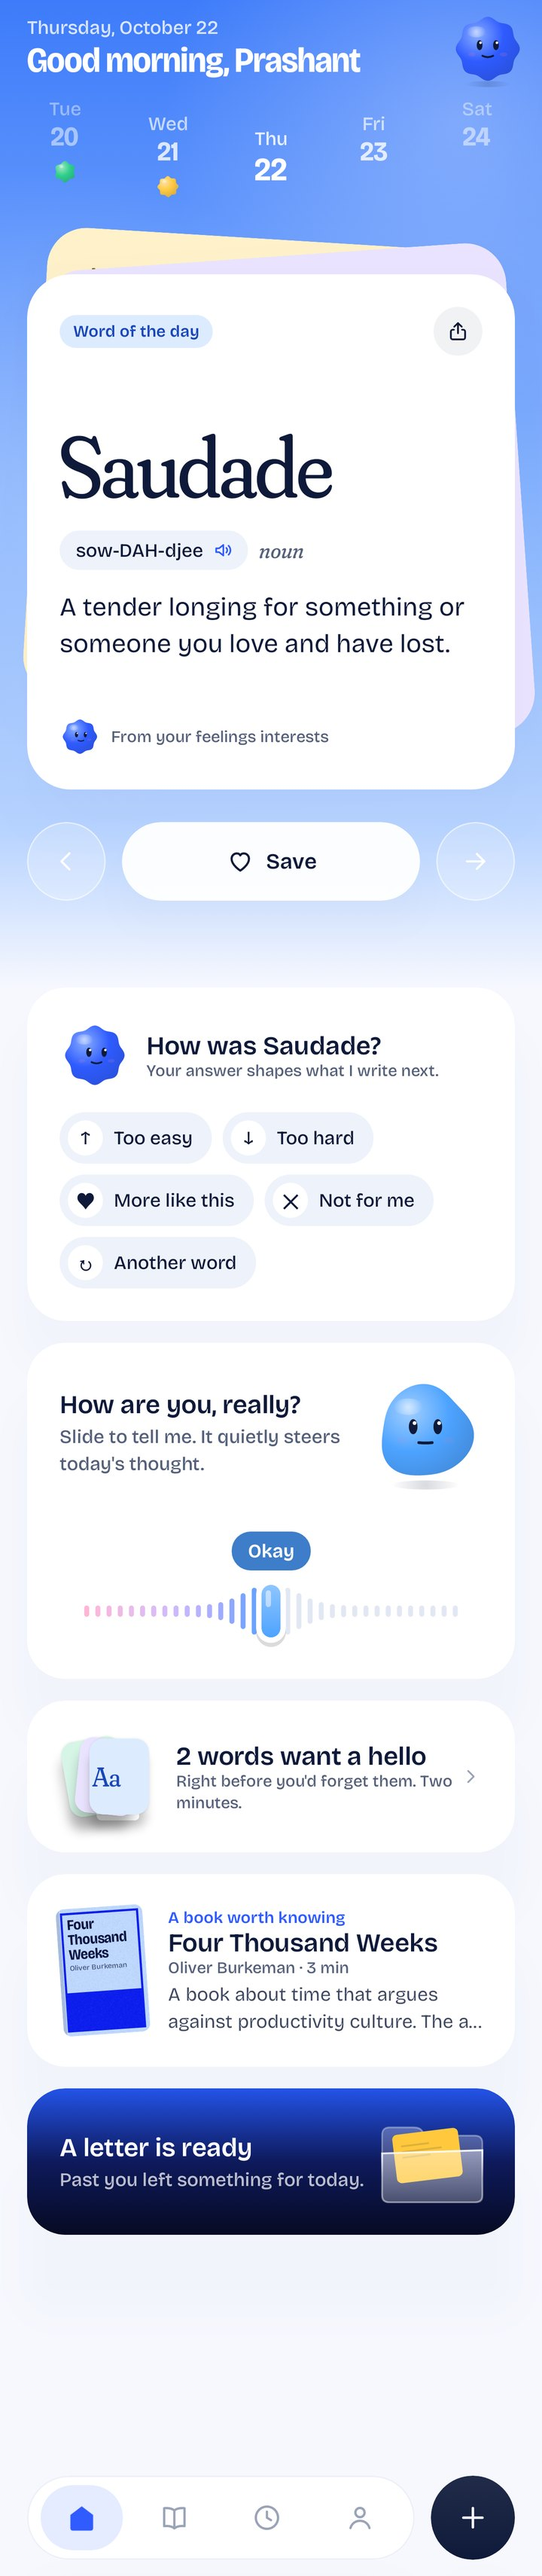
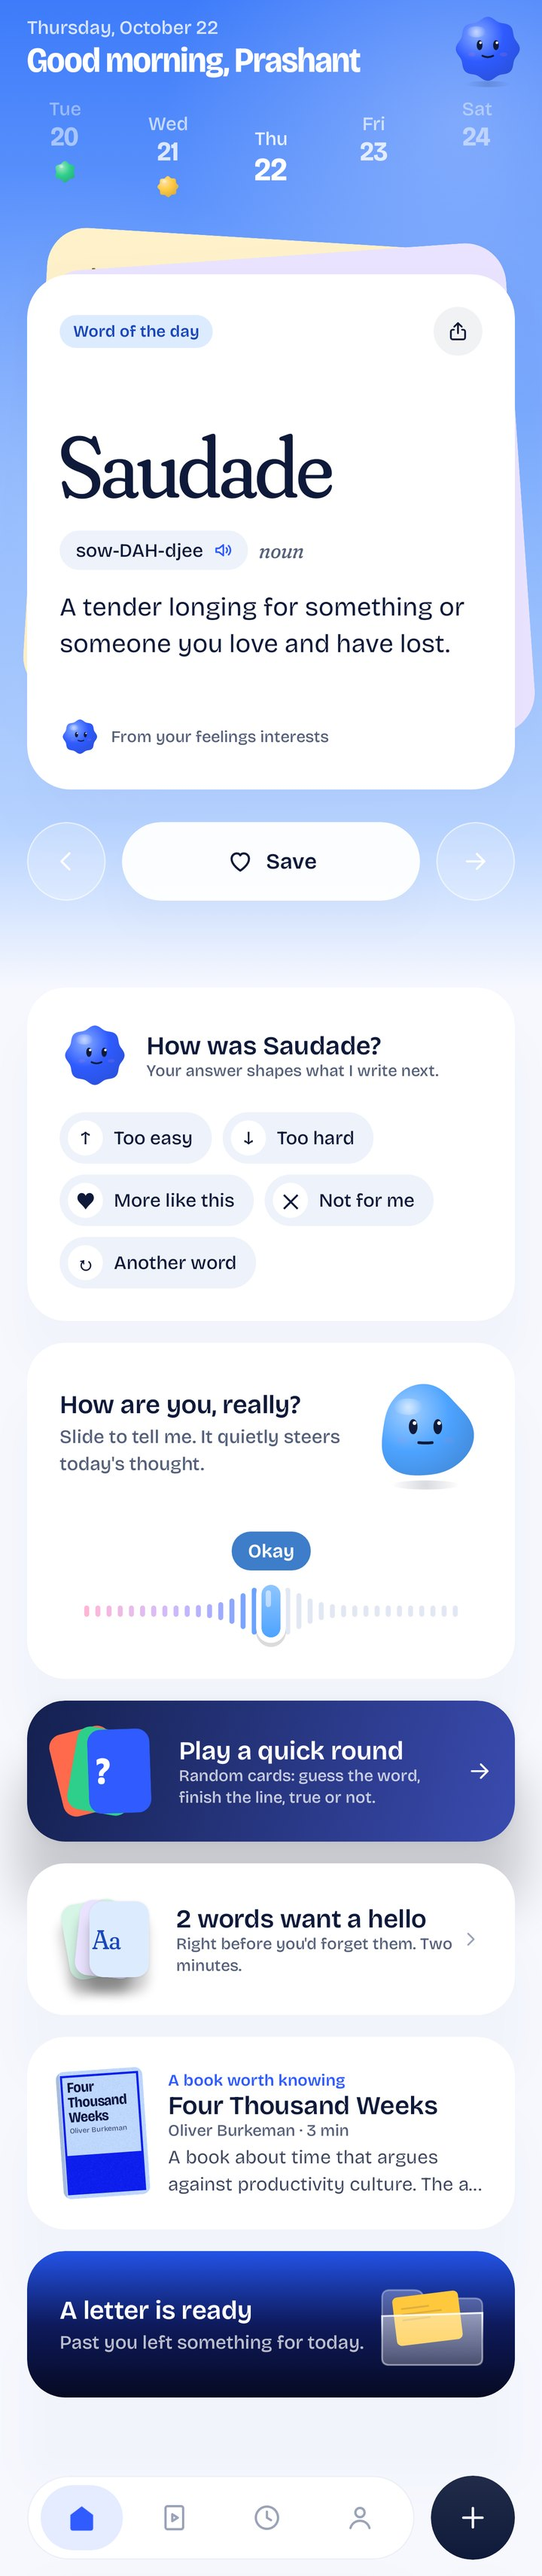
Review pass: plurals, taste skill round three, docs and screenshots
Written by Claude (Opus 5.5).

- Fixed singular/plural copy ("1 unseen word", "1 book").
- kairos-playful-sky skill: round-three rules (product shape, Feed rules
  and signals, card shapes and ArtAndText, no "written for you", Play,
  transitions, letters, on-device AI) and the trending skills used.
- README and screenshots: Feed, Play, the new letter, cards in every shape.
- Checked: 81 tests pass; the release build passes.

Changed region(s): [[0.0306, 0.6509, 0.9778, 0.9298], [0.3056, 0.9608, 0.3361, 0.9918]]

diff --git a/app/src/main/java/com/kairos/app/ui/feature/you/Curator.kt b/app/src/main/java/com/kairos/app/ui/feature/you/Curator.kt
@@ -140,7 +140,7 @@ fun CuratorScreen(onBack: () -> Unit) {
             AnimatedContent(message, transitionSpec = { fadeIn() togetherWith fadeOut() }, label = "msg") { m ->
                 if (m != null) Text(m, style = K.type.label.copy(fontWeight = FontWeight.SemiBold), color = p.onSky, textAlign = TextAlign.Center, modifier = Modifier.fillMaxWidth().padding(top = Gap.md, start = Gap.gutter, end = Gap.gutter))
             }
-            if (awake) Text("$pool unseen words waiting for you", style = K.type.caption, color = p.onSkySoft, modifier = Modifier.padding(top = Gap.sm))
+            if (awake) Text(if (pool == 1) "1 unseen word waiting for you" else "$pool unseen words waiting for you", style = K.type.caption, color = p.onSkySoft, modifier = Modifier.padding(top = Gap.sm))
         }
 
         Column(Modifier.padding(horizontal = Gap.gutter)) {

diff --git a/app/src/main/java/com/kairos/app/ui/feature/learn/LearnScreen.kt b/app/src/main/java/com/kairos/app/ui/feature/learn/LearnScreen.kt
@@ -433,7 +433,7 @@ private fun QuoteTile(q: QuoteEntity, index: Int, onClick: () -> Unit, modifier:
 private fun Books(books: List<BookEntity>, d: Discover, more: () -> Unit, open: (String) -> Unit) {
     val p = K.colors
     Column {
-        Text(if (books.isEmpty()) "Your shelf is waiting" else "${books.size} books worth knowing", style = K.type.shout.copy(fontSize = 34.sp, lineHeight = 36.sp), color = p.ink)
+        Text(if (books.isEmpty()) "Your shelf is waiting" else if (books.size == 1) "1 book worth knowing" else "${books.size} books worth knowing", style = K.type.shout.copy(fontSize = 34.sp, lineHeight = 36.sp), color = p.ink)
         Spacer(Modifier.height(Gap.lg))
         Box(Modifier.fillMaxWidth().height(200.dp)) {
             // The glass shelf the covers stand on.

diff --git a/README.md b/README.md
@@ -25,12 +25,14 @@ Share cards, each drawn from one of the references in issue #606:
 
 <p><img src="docs/screenshots/10_cards_word.jpg" width="380" /> <img src="docs/screenshots/10c_cards_story.jpg" width="380" /></p>
 
-## Kai writes for free
+## Kai writes for free (and offline on supported phones)
 
 Kairos ships with its own AI so nobody has to bring a key: **Mercury 3** (Inception's diffusion
 model, very fast) writes words, and **Gemini Flash** writes thoughts and books, where real quotes and
 real books must be exactly right. Each falls back to the other. Anyone can still add their own
-OpenRouter key under You → Kai, and it is used first.
+OpenRouter key under You → Kai, and it is used first. On phones that support it, **Gemini Nano**
+runs on the device (ML Kit GenAI) and writes original lines, affirmations and small good things
+offline; quotes, books and word origins always come from the cloud models.
 
 The built-in keys are read at build time from `local.properties` or the environment
 (`INCEPTION_API_KEY`, `GEMINI_API_KEY`) and are never committed. Anything inside an APK can be
@@ -70,10 +72,12 @@ word enrols it in SM-2 spaced repetition.
 |---|---|
 | **Onboarding** | The logo wakes up: the bloom's petals unfold and it becomes Kai, the curator, who opens their eyes. Kai and three friends stay on screen and move between steps while a white cloud field rises and falls. Giant dashed-to-solid pills for topics and themes, a word wheel and adaptive slider for level, a key ritual to wake Kai, and an aurora finale that says what Kai learned about you. |
 | **Today** | Greeting with Kai in today's mood, an arched week strip with a mood shape for each day, and a swipeable deck of tilted cards: the word, the thought and the small good thing. `←  Save  →` controls with a heart burst, Teach Kai reactions, a mood check-in through the adaptive slider (Kai changes shape as you slide), a review nudge and a peek at the capsule. |
-| **Learn** | Words, Thoughts and Books. An endless, ranked "Fresh for you" strip, "Ask Kai for words about…", typographic library tiles, and micro-summaries of books on a shelf of typographic covers. |
+| **Feed** | An endless reel of words, thoughts, affirmations, book bites and breathing pauses, each on its own card design. Double tap to keep, share to a card, "less" to see fewer. It learns from what you keep, share and linger on, and re-ranks as you scroll. |
+| **Play** | Random flashcards: guess the word, finish the line, true or not. Flip, swipe right if you knew it. |
+| **Library** | Words, Thoughts and Books. An endless, ranked "Fresh for you" strip, "Ask Kai for words about…", typographic library tiles, and micro-summaries of books on a shelf of typographic covers. |
 | **Word / thought / book pages** | A typographic specimen hero for words (the word over a ghost of itself), a grainy glow with a smiling sun for thoughts, and a book page with the summary, key ideas and a line. |
 | **Practice** | Grainy, deep-coloured flip cards fanned over each other with an orbit ring, petal progress, ✦ points, grade buttons with Kai's faces, and a garden at the end. |
-| **Card studio** | Sixteen share cards drawn from the references (Note, Poster, Bold, Blunt, Stickers, Stage, Starry, Ring, Envelope, Split, Garden, Leaf, Swiss, Glow, Bloom, Portal), five hues, three formats, exported at 1080px. Text always fits its own zone, so nothing overlaps in any format. |
+| **Card studio** | Twenty-four share cards, each with its own layout for Pin, Story and Square,  drawn from the references (Note, Poster, Bold, Blunt, Stickers, Stage, Starry, Ring, Envelope, Split, Garden, Leaf, Swiss, Glow, Bloom, Portal), five hues, three formats, exported at 1080px. Text always fits its own zone, so nothing overlaps in any format. |
 | **Time capsule** | A night sky with glass folders, letters peeking out and a mood sticker on each. Compose on cream paper with an "open in" slider; seal it and a wax bloom stamps it shut while dandelion seeds drift away; open it and the folder tips toward you and the letter slides out. |
 | **You** | Kai, stats, your garden (a flower for every word you kept), four weeks of mood shapes, and settings with face toggles. |
 

diff --git a/.agents/skills/kairos-playful-sky/SKILL.md b/.agents/skills/kairos-playful-sky/SKILL.md
@@ -343,3 +343,30 @@ Nothing ships that has not been looked at.
   concept words (Greek and Latin first, e.g. akrasia). See `engine/Curator.kt` and its `Slop` list.
 - Motion signatures added: kinetic headlines (`KineticText`), the mark-to-Kai morph with a light
   ring, squash and stretch on moving characters, a drifting sparkle field.
+
+## 14. Round three (owner feedback, October 2026)
+
+Trending skills consulted again for this round: Emil Kowalski's *animate* (interruption, springs for
+gestures, exit the way you entered), LottieFiles *motion-design* (three motion layers, choreography),
+*design-motion-principles* (frequency gate; Jakub for production polish, Jhey for delight).
+
+- **Product shape:** Today (one of each), **Feed** (endless reel), Capsule, You. The library is a
+  sub-page of the Feed. Play is a game reached from Today and the + sheet.
+- **Feed rules:** one card per page, inside a safe frame clear of header, rail and bar; each item
+  always wears the same design (chosen from its key); double tap to keep; the rail is Keep, Share,
+  Less. Signals are keeps, shares, "less" and dwell time (under 1.2 s ignored, capped at 60 s); the
+  queue re-ranks every five pages. A breathing pause appears after at least five reads.
+  Never productivity framing: no streak pressure, no counts of "done".
+- **Cards:** every design has layouts for square, pin and story (`CardShape`). Use `ArtAndText` for
+  art + words: stacked for pin and story, side by side for square. 24 designs in total; the round-three
+  ones are Blur bloom, Halftone, Eclipse, Breathe, Cyanotype, Pixel, Window and Specimen.
+- **Copy:** never "written for you". Kai's own lines and affirmations show no author.
+- **Play:** random cards (guess the word, finish the line, true or not), flip in 3D, swipe right if
+  you knew it; the card follows the finger, tints, and flies off the way it was thrown.
+- **Transitions:** push (detail pages slide in from the right over a dimmed, shrunk page), sheet
+  (compose, play, practice, studio rise from the bottom), fade-through for the rest; tabs slide in the
+  direction of travel. See `ui/nav/NavHost.kt`.
+- **Letters:** three steps (Write, Tuck in, When); reading unfolds the paper and each paragraph; the
+  reply is a postcard.
+- **On-device AI:** Gemini Nano through ML Kit (`data/ai/LocalModel.kt`), only for original lines,
+  affirmations, sparks and prompts. Never for quotes, books or etymologies.
